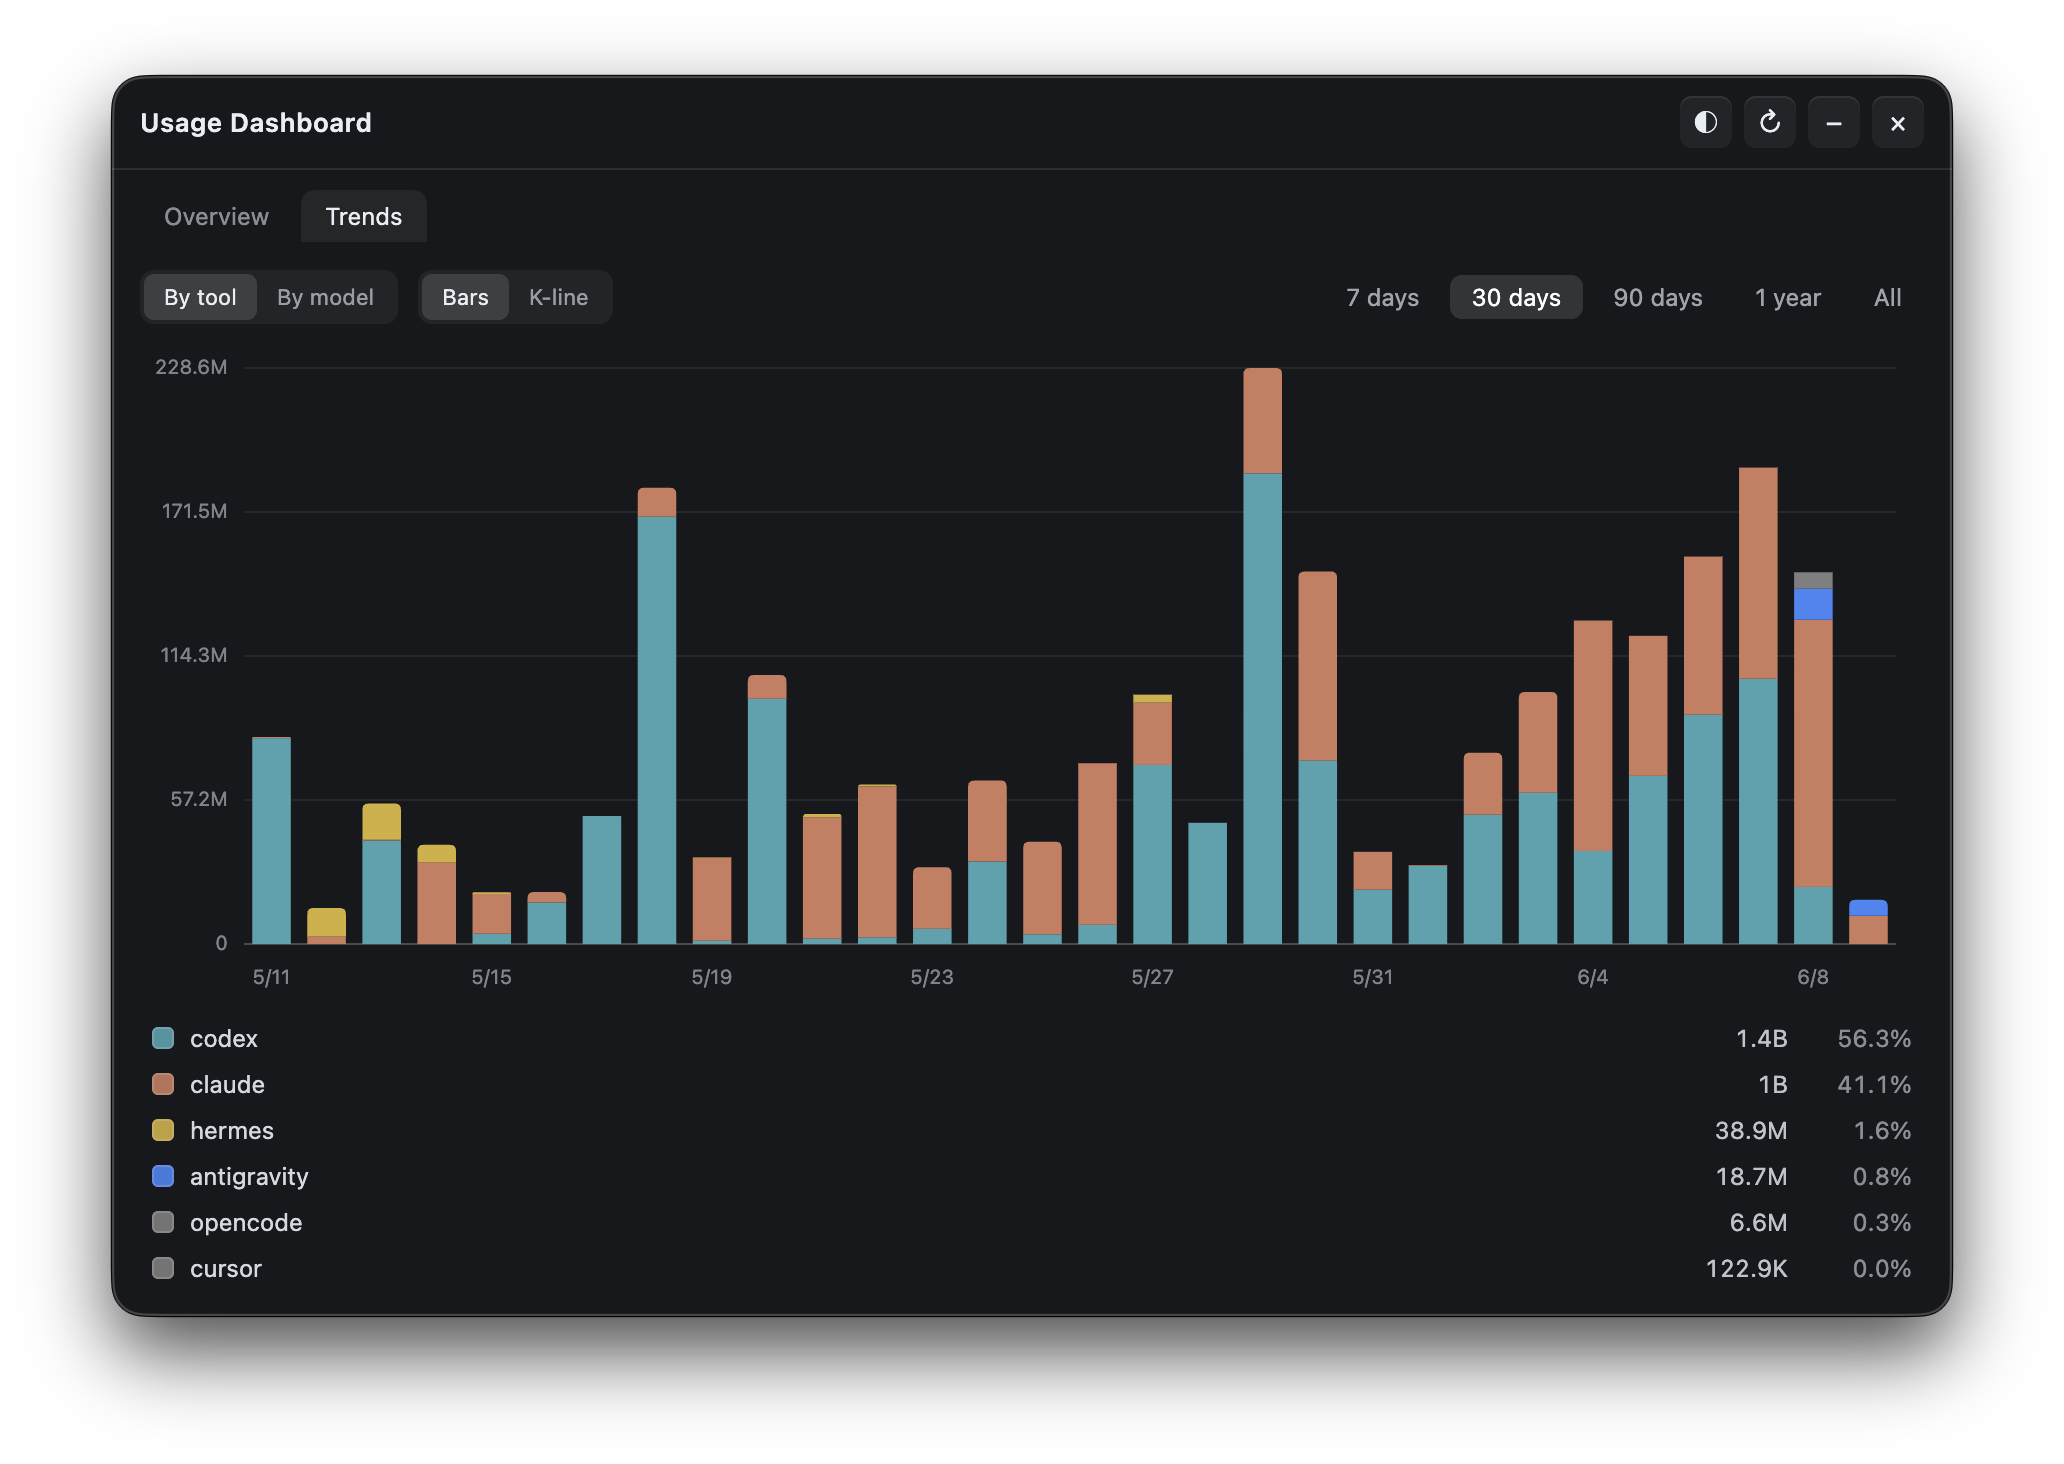
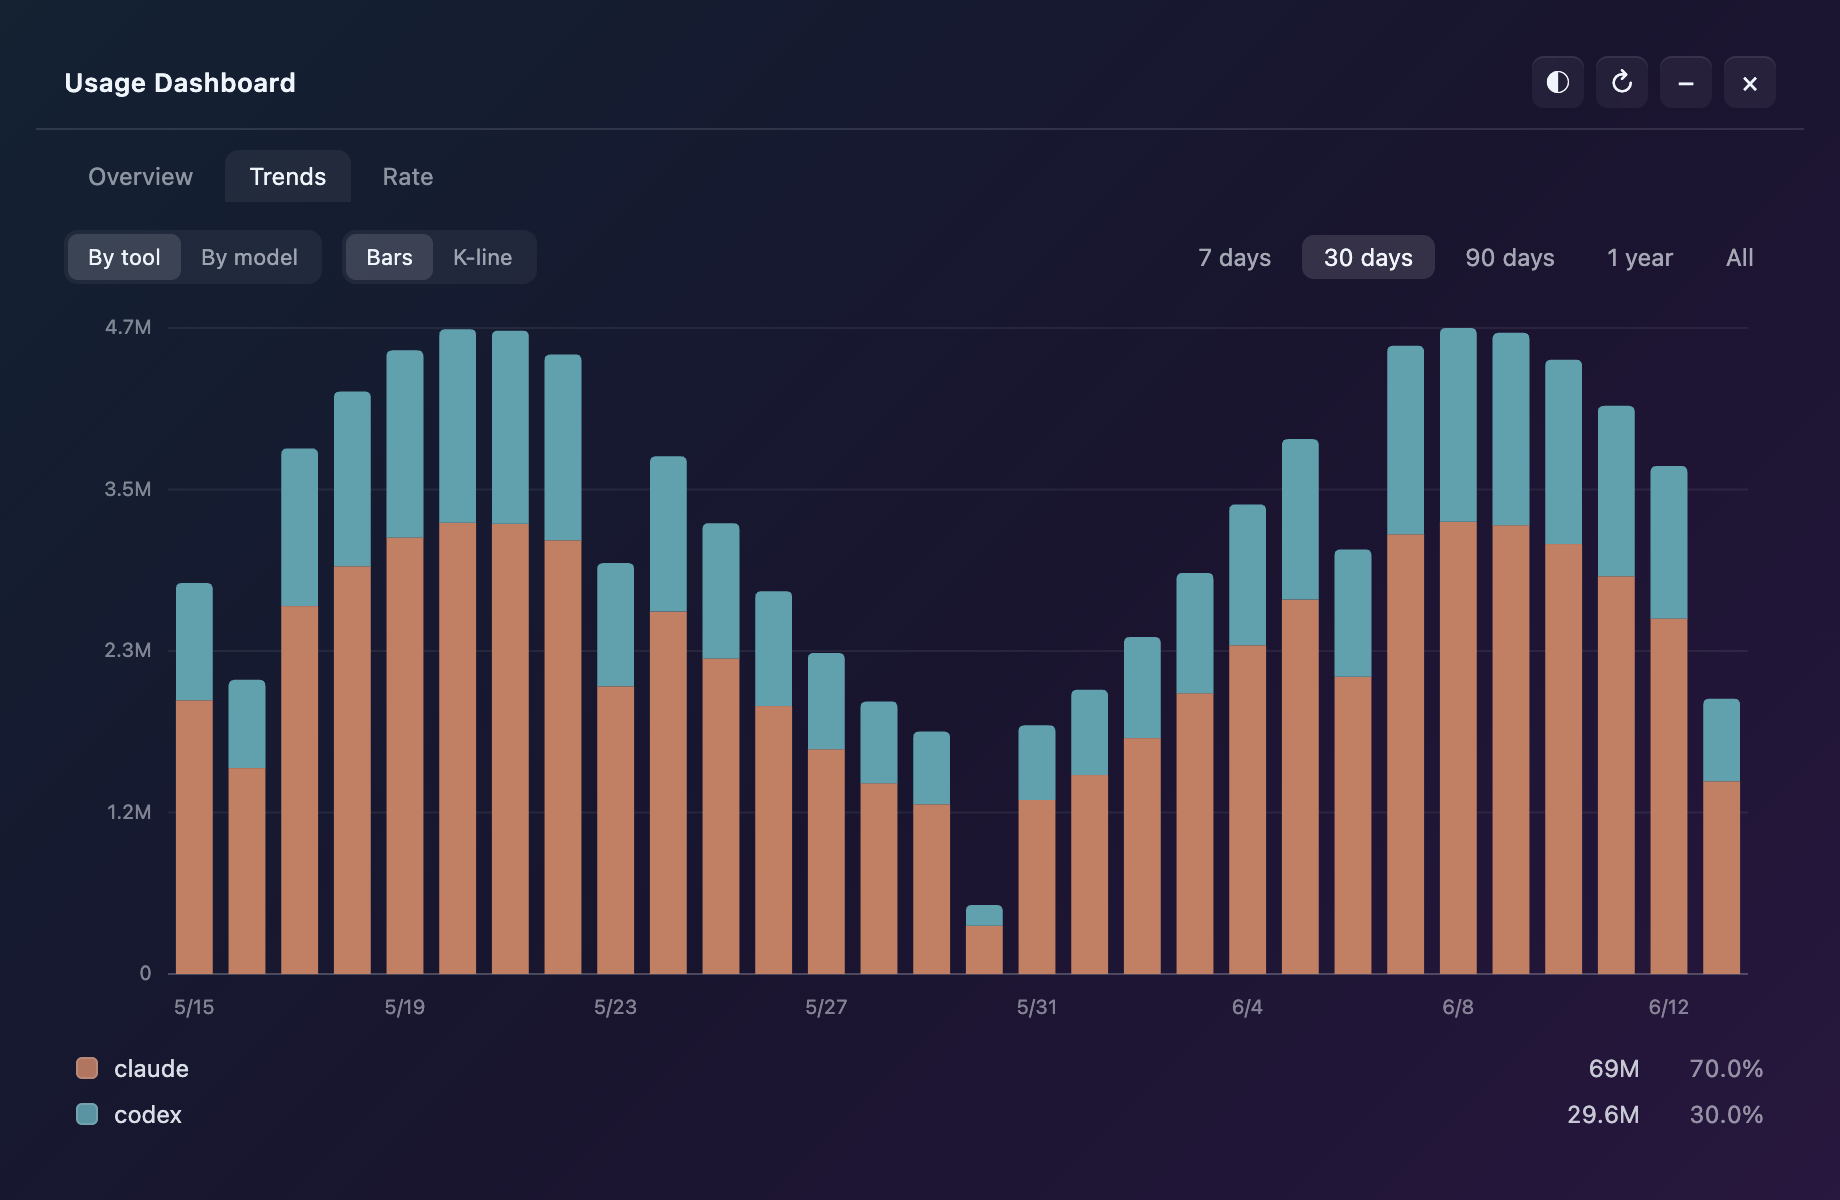
docs: refresh README screenshots for this fork (synthetic, privacy-safe)
Replace the hero and key screenshots with renders of the customized UI,
generated offscreen from synthetic data (no real usage/cost/privacy) via
scripts/capture. Shows the new top view-tab bar, project+AI-title session
rows, cost-ranked model view, and the usage rate graph.

- Hero: demo.gif -> widget-main.png (static; GIF not regenerated).
- Overwrote sessions-view.png, models-view.png, dashboard-trends.png.
- Added widget-main.png + dashboard-rate.png (new rate-graph shot, wired into
  all three READMEs).
- limits/status/devices/session-details/overview keep upstream images (need
  richer mock data; left as-is).
- scripts/capture/: reusable offscreen screenshot generator (mock-preload + capture).

diff --git a/scripts/capture/mock-preload.js b/scripts/capture/mock-preload.js
@@ -1,0 +1,128 @@
+'use strict';
+// Mock preload for offscreen README screenshot generation. Exposes the same
+// `window.tokenMonitor` surface the renderer expects, but backed by synthetic
+// data (no real usage, no network, no IPC). Used only by scripts/capture/capture.js.
+const { contextBridge } = require('electron');
+
+const now = Date.UTC(2026, 5, 13, 18, 0, 0);
+const iso = (ms) => new Date(ms).toISOString();
+const dayKey = (ms) => new Date(ms).toISOString().slice(0, 10);
+
+const MODELS = {
+  'claude-opus-4-8': { rate: 0.62 },
+  'claude-sonnet-4-6': { rate: 0.18 },
+  'gpt-5.3-codex': { rate: 0.30 }
+};
+
+function period(scale) {
+  const models = {}; const modelCosts = {}; const modelOutputs = {}; const modelCacheReads = {}; const modelCacheWrites = {};
+  const mk = (m, tok) => { models[m] = tok; modelCosts[m] = +(tok / 1e6 * MODELS[m].rate).toFixed(4); modelOutputs[m] = Math.round(tok * 0.12); modelCacheReads[m] = Math.round(tok * 0.6); modelCacheWrites[m] = Math.round(tok * 0.08); };
+  mk('claude-opus-4-8', 9_600_000 * scale);
+  mk('claude-sonnet-4-6', 3_100_000 * scale);
+  mk('gpt-5.3-codex', 1_900_000 * scale);
+  const totalTokens = Object.values(models).reduce((a, b) => a + b, 0);
+  const costUsd = +Object.values(modelCosts).reduce((a, b) => a + b, 0).toFixed(2);
+  const claudeTok = models['claude-opus-4-8'] + models['claude-sonnet-4-6'];
+  const codexTok = models['gpt-5.3-codex'];
+  const clients = { claude: claudeTok, codex: codexTok };
+  const clientCosts = { claude: +(modelCosts['claude-opus-4-8'] + modelCosts['claude-sonnet-4-6']).toFixed(2), codex: modelCosts['gpt-5.3-codex'] };
+  const mkSession = (id, client, project, title, tok, model, ago) => [`${client}:${id}`, {
+    client, sessionId: id, project, title,
+    totalTokens: tok, costUsd: +(tok / 1e6 * MODELS[model].rate).toFixed(2),
+    messageCount: Math.round(tok / 90000), inputTokens: Math.round(tok * 0.28), outputTokens: Math.round(tok * 0.12),
+    cacheReadTokens: Math.round(tok * 0.5), cacheWriteTokens: Math.round(tok * 0.08), reasoningTokens: 0,
+    models: { [model]: tok }, modelCosts: { [model]: +(tok / 1e6 * MODELS[model].rate).toFixed(2) }, providers: {},
+    startedAt: iso(now - ago - 3600000), lastUsedAt: iso(now - ago)
+  }];
+  const sessions = Object.fromEntries([
+    mkSession('a1b2c3d4-1111', 'claude', 'token-watch', 'Add usage rate graph + aggregation', 5_400_000 * scale, 'claude-opus-4-8', 600000),
+    mkSession('e5f6a7b8-2222', 'claude', 'hyperliquid-skill', 'Build Hyperliquid trading skill', 3_200_000 * scale, 'claude-sonnet-4-6', 5400000),
+    mkSession('rollout-2026-06-13T09-00-00-3333', 'codex', 'api-gateway', 'Refactor auth middleware', 1_900_000 * scale, 'gpt-5.3-codex', 9000000)
+  ]);
+  return {
+    totalTokens, costUsd, inputTokens: Math.round(totalTokens * 0.28), outputTokens: Math.round(totalTokens * 0.12),
+    cacheReadTokens: Math.round(totalTokens * 0.55), cacheWriteTokens: Math.round(totalTokens * 0.08), reasoningTokens: 0,
+    clients, clientCosts, clientCacheReads: {}, clientCacheWrites: {}, clientOutputs: {},
+    models, modelCosts, modelOutputs, modelCacheReads, modelCacheWrites,
+    clientModels: { claude: { 'claude-opus-4-8': models['claude-opus-4-8'], 'claude-sonnet-4-6': models['claude-sonnet-4-6'] }, codex: { 'gpt-5.3-codex': models['gpt-5.3-codex'] } },
+    clientModelCosts: { claude: { 'claude-opus-4-8': modelCosts['claude-opus-4-8'], 'claude-sonnet-4-6': modelCosts['claude-sonnet-4-6'] }, codex: { 'gpt-5.3-codex': modelCosts['gpt-5.3-codex'] } },
+    sessions
+  };
+}
+
+function daily() {
+  const out = [];
+  for (let i = 29; i >= 0; i--) {
+    const ms = now - i * 86400000;
+    const tok = Math.round(2_000_000 + Math.sin(i / 3) * 1_500_000 + (i % 7 === 0 ? 0 : 1_200_000));
+    out.push({ date: dayKey(ms), tokens: Math.max(0, tok), cost: +(Math.max(0, tok) / 1e6 * 0.4).toFixed(2), perClient: { claude: { tokens: tok * 0.7, cost: tok / 1e6 * 0.4 * 0.7 }, codex: { tokens: tok * 0.3, cost: tok / 1e6 * 0.4 * 0.3 } }, perModel: {} });
+  }
+  return out;
+}
+
+const STATS = {
+  updatedAt: iso(now),
+  periods: { today: period(1), month: period(11), allTime: period(140) },
+  devices: [{ deviceId: 'victor-mac', hostname: 'victor-mac', platform: 'darwin', stale: false }],
+  historyPreview: { daily: daily(), monthly: [], summary: { activeDays: 23, currentStreak: 6, longestStreak: 11, peakDayTokens: 8_700_000 } }
+};
+
+const SETTINGS = {
+  currency: 'USD', language: 'en', glassOpacity: 82, glassBlur: 30, systemGlass: true, showLiveDot: true,
+  showToolIcons: true, titleIconOnly: false, settingsInTitlebar: false, windowBehavior: 'floating',
+  clients: 'claude,codex,cursor', hiddenClients: '', pinnedClients: '', clientDisplayOrder: '',
+  viewDisplayOrder: '', hiddenViews: '', historyEnabled: true, numberAnimation: false, modelSortByCost: false,
+  alwaysOnTopAboveAll: false, usageRefreshMs: 300000, dailyBudget: 0, monthlyBudget: 0,
+  dataDirs: { claude: '' }, limitsEnabled: true, limitProviders: 'claude,codex', limitProviderOrder: '',
+  showLimitSource: false, trayContent: 'tokens', showTrayIcon: true, trayMode: false, zoomFactor: 1,
+  lastViewState: { period: 'today', breakdown: 'tool' }, deviceId: 'victor-mac', hubUrl: '', secret: '',
+  themeColors: {}, vendorColors: {}, appUpdate: { lastCheckedAt: null, lastKnownLatest: null, dismissedVersion: null }
+};
+
+function rateSeries(windowKey, metric) {
+  const map = { '1h': 3600000, '3h': 3 * 3600000, '6h': 6 * 3600000, '12h': 12 * 3600000, '1d': 86400000, '1w': 7 * 86400000 };
+  const win = map[windowKey] || 3600000;
+  const n = 80; const pts = [];
+  for (let i = 0; i < n; i++) {
+    const t = now - win + (i / (n - 1)) * win;
+    const base = metric === 'cost' ? 0.9 : metric === 'output' ? 9000 : 70000;
+    const v = Math.max(0, base * (0.5 + 0.5 * Math.sin(i / 6) + 0.3 * Math.sin(i / 2.3)) * (i > n * 0.15 ? 1 : 0.2));
+    pts.push({ t: Math.round(t), value: v });
+  }
+  return { window: windowKey, metric, bucketMs: win / n, points: pts };
+}
+
+const noop = () => {};
+const reg = () => noop;
+const api = {
+  getAppInfo: async () => ({ platform: 'darwin', osRelease: '24.0.0', appVersion: '0.11.1', loginItemSupported: false }),
+  getSettings: async () => JSON.parse(JSON.stringify(SETTINGS)),
+  updateSettings: async (patch) => Object.assign(SETTINGS, patch || {}),
+  previewAppearance: noop,
+  getStats: async () => JSON.parse(JSON.stringify(STATS)),
+  getSessionDetail: async () => ({ found: false, exchanges: [], totals: {} }),
+  getStreamStatus: async () => ({ connected: true, mode: 'local' }),
+  getServiceStatus: async () => ({ providers: [] }),
+  openDashboard: noop,
+  getDashboardHistory: async () => JSON.parse(JSON.stringify(STATS.historyPreview)),
+  getUsageRate: async (window, metric) => rateSeries(window || '1h', metric || 'total'),
+  dashboard: { minimize: noop, close: noop },
+  getHubInfo: async () => ({ url: null, secret: '', mode: 'local', running: false, hostUrls: [], secretRequired: false }),
+  regenerateHubSecret: async () => ({ secret: 'x' }),
+  onHubPush: reg, onStatsPush: reg, onSettingsPush: reg, onTokscalePush: reg, onAppUpdatePush: reg, onFloatingBubbleState: reg,
+  getAppInfoSync: noop,
+  getAppUpdateState: async () => ({ lastCheckedAt: null, lastKnownLatest: null, dismissedVersion: null }),
+  checkAppUpdateNow: async () => ({}), dismissAppUpdate: noop,
+  expandFloatingBubble: noop, moveFloatingBubble: noop, signalContentReady: noop, setViewState: noop,
+  peekFloatingBubble: noop, collapseFloatingBubbleIfIdle: noop, setFloatingBubbleCollapsedSize: noop,
+  setTrayIcons: noop, getTokscaleStatus: async () => ({ supported: true, current: { source: 'bundled', version: '3.1.2' } }),
+  checkTokscaleNpm: async () => ({ supported: true, newer: false }), downloadTokscaleFromNpm: async () => ({}), resetTokscaleToBundled: async () => ({}),
+  getStreamStatusSync: noop, openExternal: noop, openUserData: noop,
+  cursor: { loginManual: noop, logout: noop, status: async () => ({}) },
+  opencode: { saveCookie: noop, logout: noop, status: async () => ({}) },
+  pricing: { get: async () => ({ models: {} }), set: async () => ({ models: {} }) },
+  dataDir: { listCandidates: async () => [{ path: '/Users/you/.claude', label: '.claude', source: 'default' }], browse: async () => null },
+  showNotification: noop, minimize: noop, close: noop
+};
+
+contextBridge.exposeInMainWorld('tokenMonitor', api);

diff --git a/scripts/capture/capture.js b/scripts/capture/capture.js
@@ -1,0 +1,74 @@
+'use strict';
+// Offscreen README screenshot generator. Loads the real renderer HTML with a mock
+// preload (synthetic data), switches views, and saves PNGs to .github/assets/preview/.
+// Run: npx electron scripts/capture/capture.js
+const { app, BrowserWindow } = require('electron');
+const path = require('node:path');
+const fs = require('node:fs');
+
+const RENDERER = path.join(__dirname, '..', '..', 'src', 'electron', 'renderer');
+const OUT = path.join(__dirname, '..', '..', '.github', 'assets', 'preview');
+const PRELOAD = path.join(__dirname, 'mock-preload.js');
+
+const BACKDROP = `html,body{background:linear-gradient(135deg,#0f2233 0%,#1a1430 55%,#2a1640 100%) !important;}
+body{padding:18px !important;box-sizing:border-box !important;}`;
+
+const sleep = (ms) => new Promise((r) => setTimeout(r, ms));
+
+async function makeWindow(file, width, height) {
+  const win = new BrowserWindow({
+    width, height, show: true, frame: false, transparent: false, backgroundColor: '#0f2233',
+    webPreferences: { preload: PRELOAD, contextIsolation: true, nodeIntegration: false, sandbox: false }
+  });
+  await win.loadFile(path.join(RENDERER, file));
+  await win.webContents.insertCSS(BACKDROP);
+  await sleep(1800);
+  return win;
+}
+
+async function shot(win, name) {
+  const img = await win.webContents.capturePage();
+  fs.writeFileSync(path.join(OUT, `${name}.png`), img.toPNG());
+  console.log('saved', name);
+}
+
+async function run(win, js) {
+  await win.webContents.executeJavaScript(js, true).catch((e) => console.log('js err', e.message));
+  await sleep(700);
+}
+
+async function main() {
+  fs.mkdirSync(OUT, { recursive: true });
+
+  // --- Widget (popover) shots ---
+  const w = await makeWindow('index.html', 460, 720);
+  await shot(w, 'widget-main'); // default: today + tool view + top tab bar + cost meta
+
+  await run(w, `document.querySelector('.view-tab[data-view="session"]')?.click();`);
+  await shot(w, 'sessions-view'); // project + AI title rows
+
+  await run(w, `state.settings.modelSortByCost = true; (typeof setBreakdown==='function'&&setBreakdown('model')); (typeof render==='function'&&render());`);
+  await shot(w, 'models-view'); // cost-ranked model view
+
+  await run(w, `document.querySelector('.view-tab[data-view="device"]')?.click();`);
+  await shot(w, 'devices-view');
+  w.close();
+
+  // --- Dashboard shots ---
+  const d = await makeWindow('dashboard.html', 920, 600);
+  await shot(d, 'dashboard-overview'); // default Overview tab (heatmap + cards)
+
+  await run(d, `document.getElementById('trendsTab')?.click();`);
+  await sleep(600);
+  await shot(d, 'dashboard-trends');
+
+  await run(d, `document.getElementById('rateTab')?.click();`);
+  await sleep(800);
+  await shot(d, 'dashboard-rate'); // usage rate graph
+  d.close();
+
+  console.log('DONE ->', OUT);
+  app.quit();
+}
+
+app.whenReady().then(main).catch((e) => { console.error(e); app.quit(); });

diff --git a/README.md b/README.md
@@ -26,7 +26,7 @@
 </p>
 
 <div align="center">
-    <img src=".github/assets/demo.gif">
+    <img src=".github/assets/widget-main.png" width="320" alt="Token Monitor widget">
 </div>
 
 ## What is Token Monitor?
@@ -101,6 +101,10 @@ Most usage monitors are useful on the machine they run on. Token Monitor is buil
 | Usage Dashboard — Overview | Usage Dashboard — Trends |
 |:---:|:---:|
 | ![Usage Dashboard Overview](.github/assets/dashboard-overview.png) | ![Usage Dashboard Trends](.github/assets/dashboard-trends.png) |
+
+| Usage Dashboard — Rate _(this fork)_ |
+|:---:|
+| ![Usage Dashboard Rate](.github/assets/dashboard-rate.png) |
 
 ## Installation
 